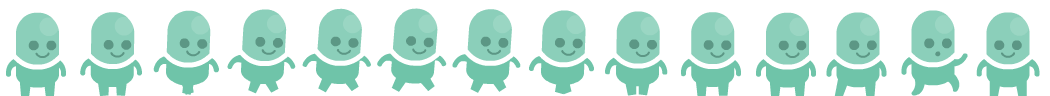
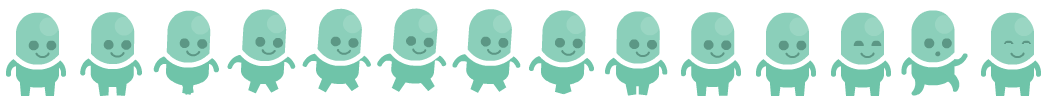
bitch be blinkin'

Changed region(s): [[0.9143, 0.125, 1.0, 1.0], [0.7619, 0.125, 0.8533, 1.0]]

diff --git a/entities.js b/entities.js
@@ -19,19 +19,18 @@ var PlayerEntity = me.ObjectEntity.extend({
         // set the display to follow our position on both axis
         me.game.viewport.follow(this.pos, me.game.viewport.AXIS.BOTH);
 
-        this.addAnimation("walk", [0,1,2,3,4,5,8,9], 1);
-        this.addAnimation("jump", [12], 5);
-        this.addAnimation("stand", [10]);
-
-        this.setCurrentAnimation("walk");
-        console.log("poop");
-
+        this.addAnimation("walk", [0,1,2,3,4,5,6,7,8,9], 2);
+        this.addAnimation("jump", [12]);
+        this.addAnimation("stand", [10,10,10,10,10,10,10,10,
+                                    10,10,10,10,10,10,10,
+                                    10,10,10,10,10,10,10,
+                                    10,10,10,10,10,10,10,10,10,10,10,11,13,10,11,13], 5);
  
     },
 
     //update animation
     updateAnimation: function(){
-        if(this.vel.x == 0){
+        if(this.vel.x === 0){
             this.setCurrentAnimation("stand");
         }
         else{
